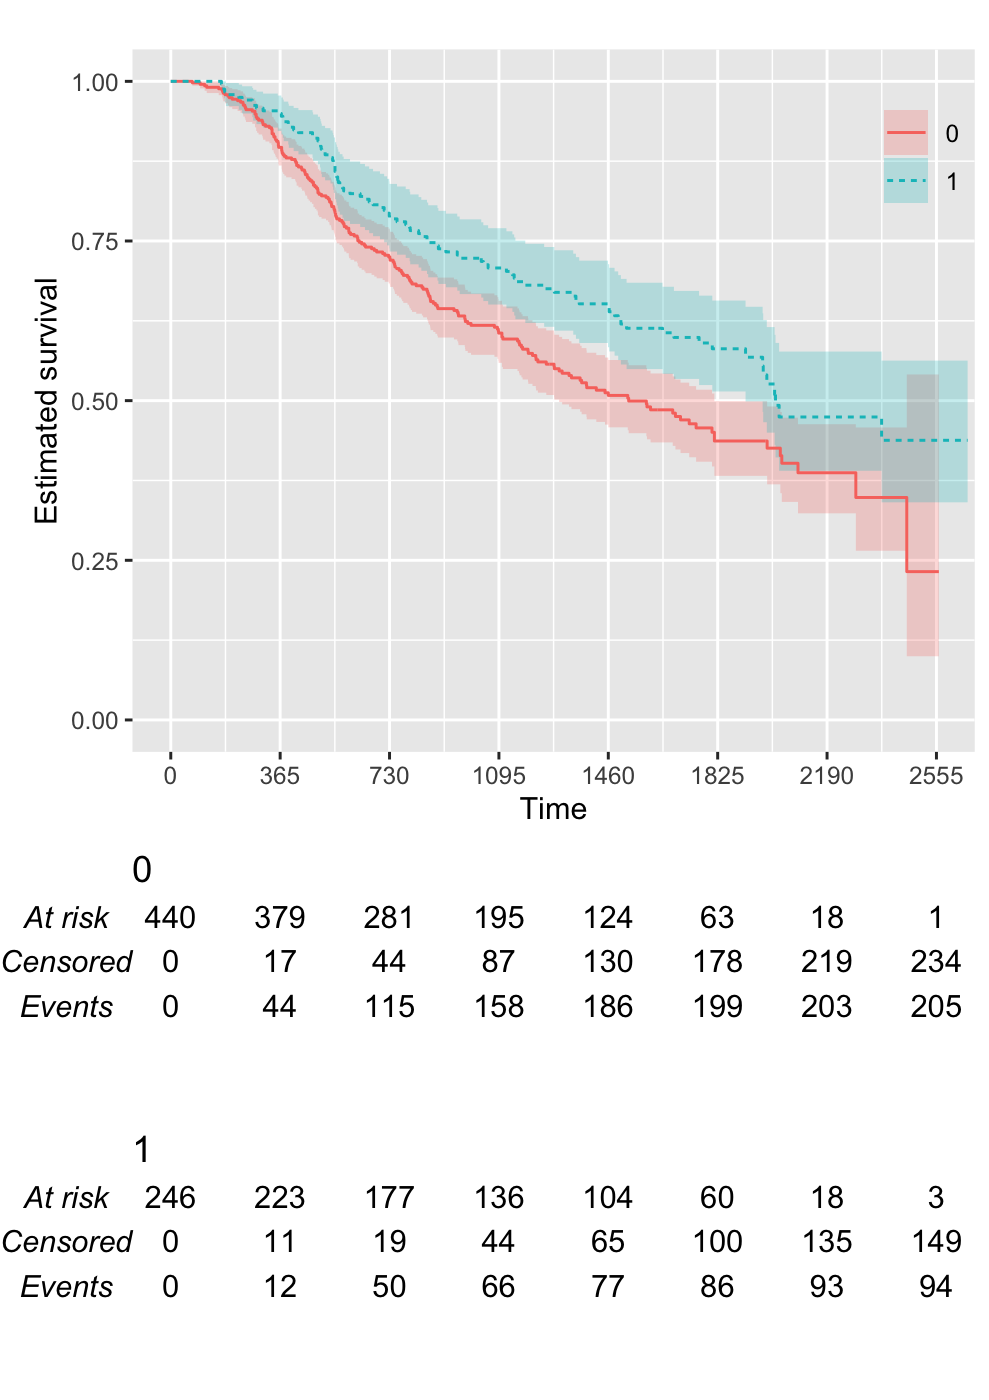
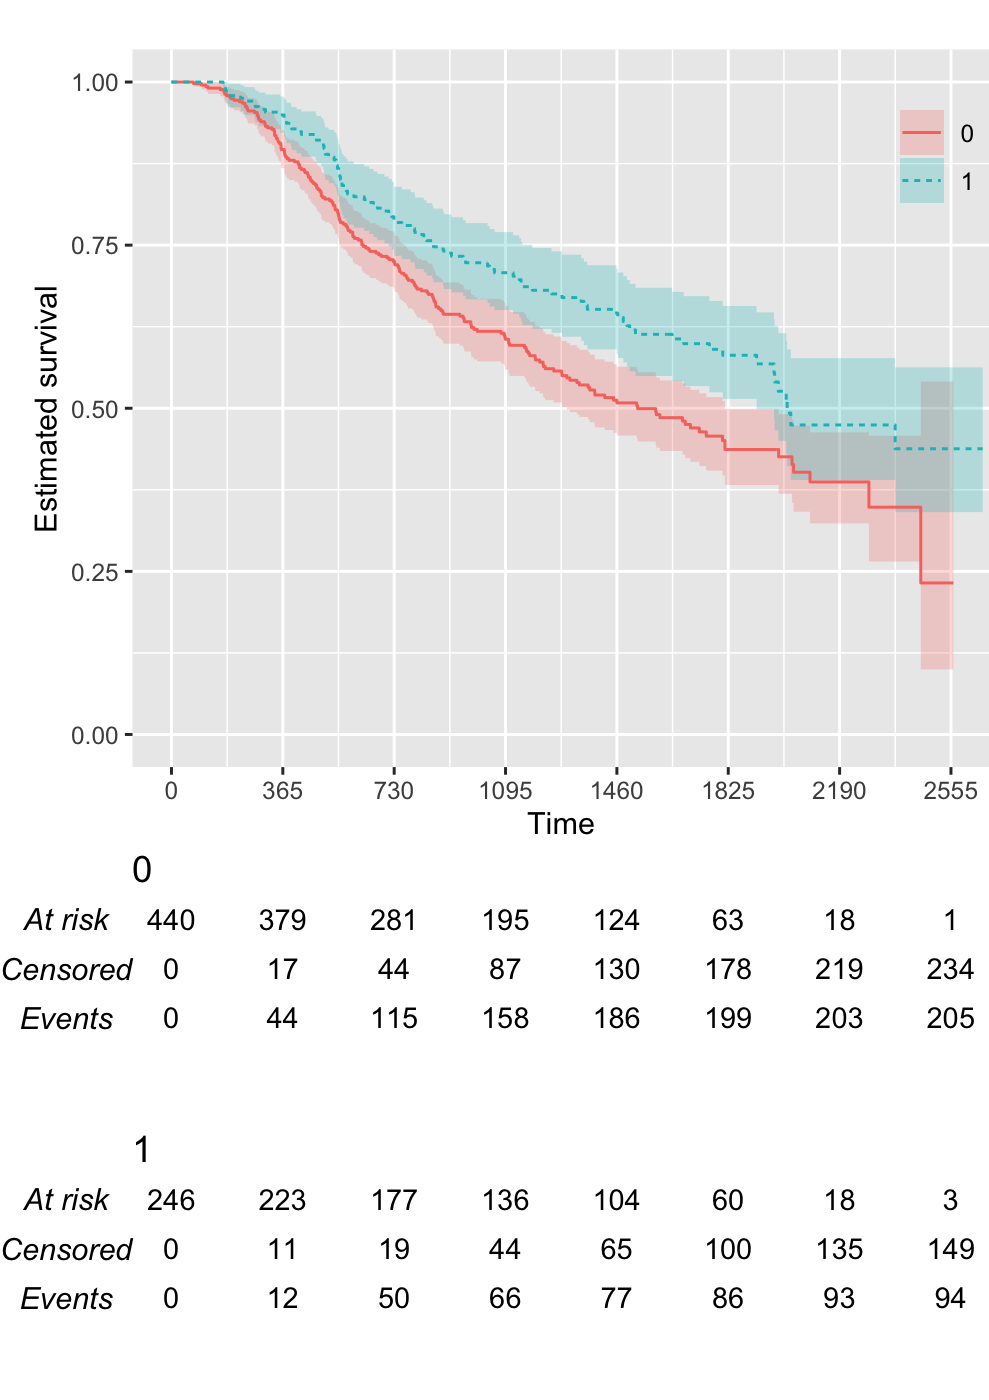
Further small edits to default plot spacing

diff --git a/docs/news/index.html b/docs/news/index.html
@@ -127,7 +127,8 @@
 <ul>
 <li>New argument <code>.reverse</code> to plot 1 - survival rather than survival;</li>
 <li>New argument <code>.ylab</code> to customise the label for the vertical axis;</li>
-<li>New argument <code>.risk_table_base_size</code> to customise the base font size for the risk table.</li>
+<li>New argument <code>.risk_table_base_size</code> to customise the base font size for the risk table;</li>
+<li>Small edits to default plot style.</li>
 </ul>
 </div>
 </div>

diff --git a/NEWS.md b/NEWS.md
@@ -4,7 +4,8 @@
 
 * New argument `.reverse` to plot 1 - survival rather than survival;
 * New argument `.ylab` to customise the label for the vertical axis;
-* New argument `.risk_table_base_size` to customise the base font size for the risk table.
+* New argument `.risk_table_base_size` to customise the base font size for the risk table;
+* Small edits to default plot style.
 
 # KMunicate 0.0.2
 
